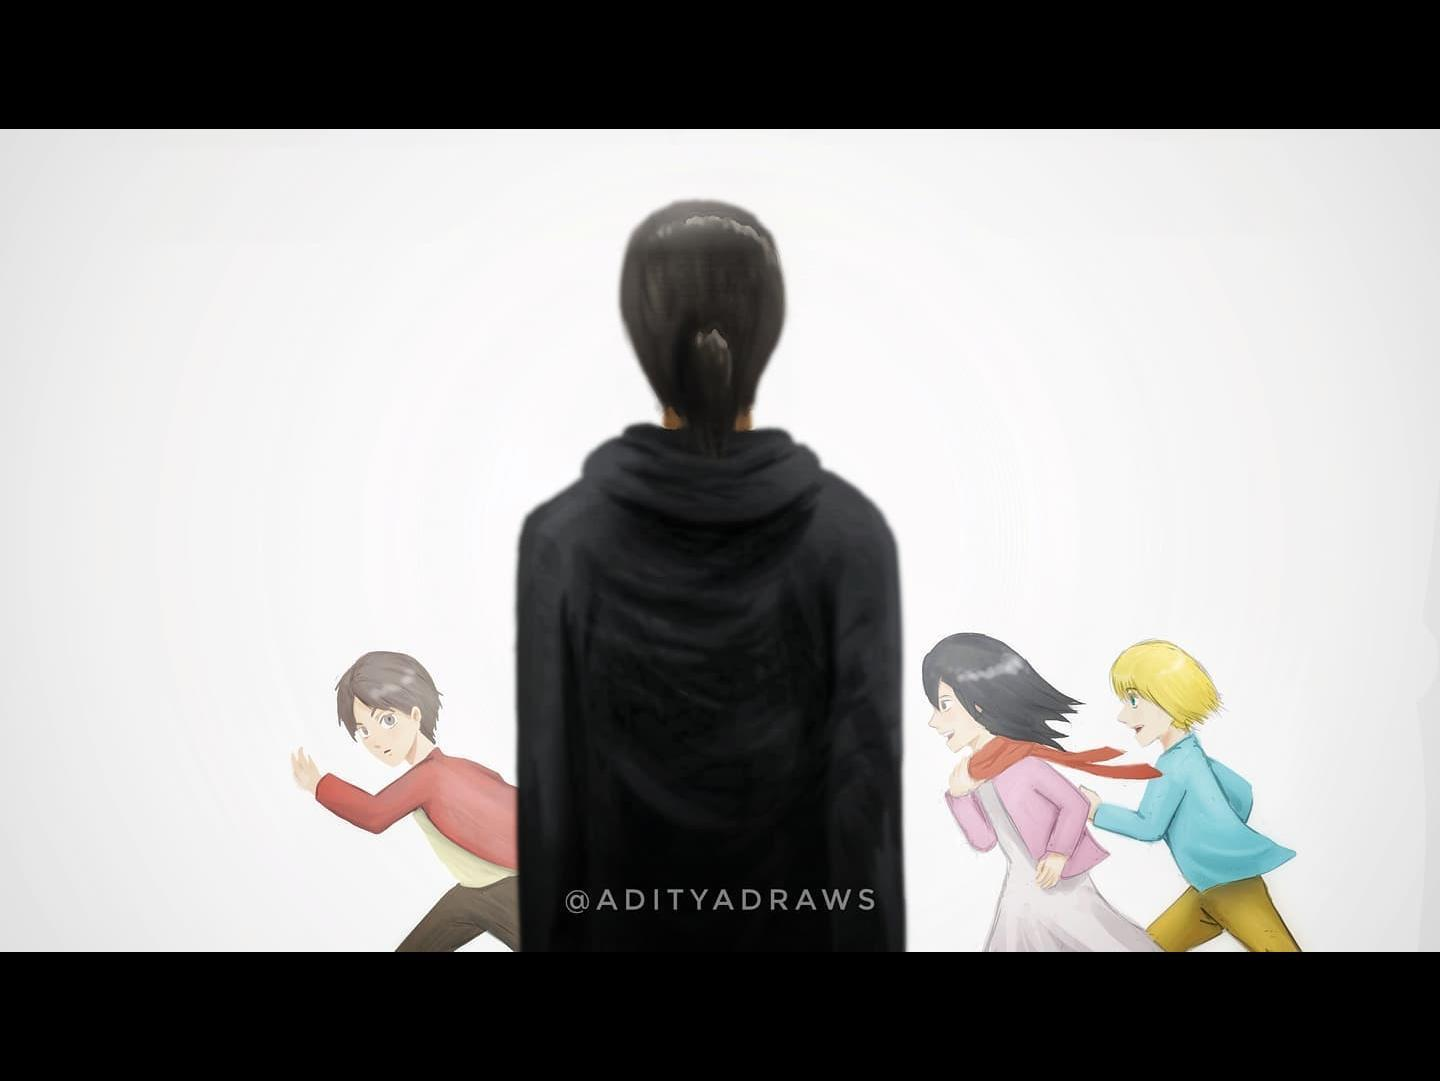
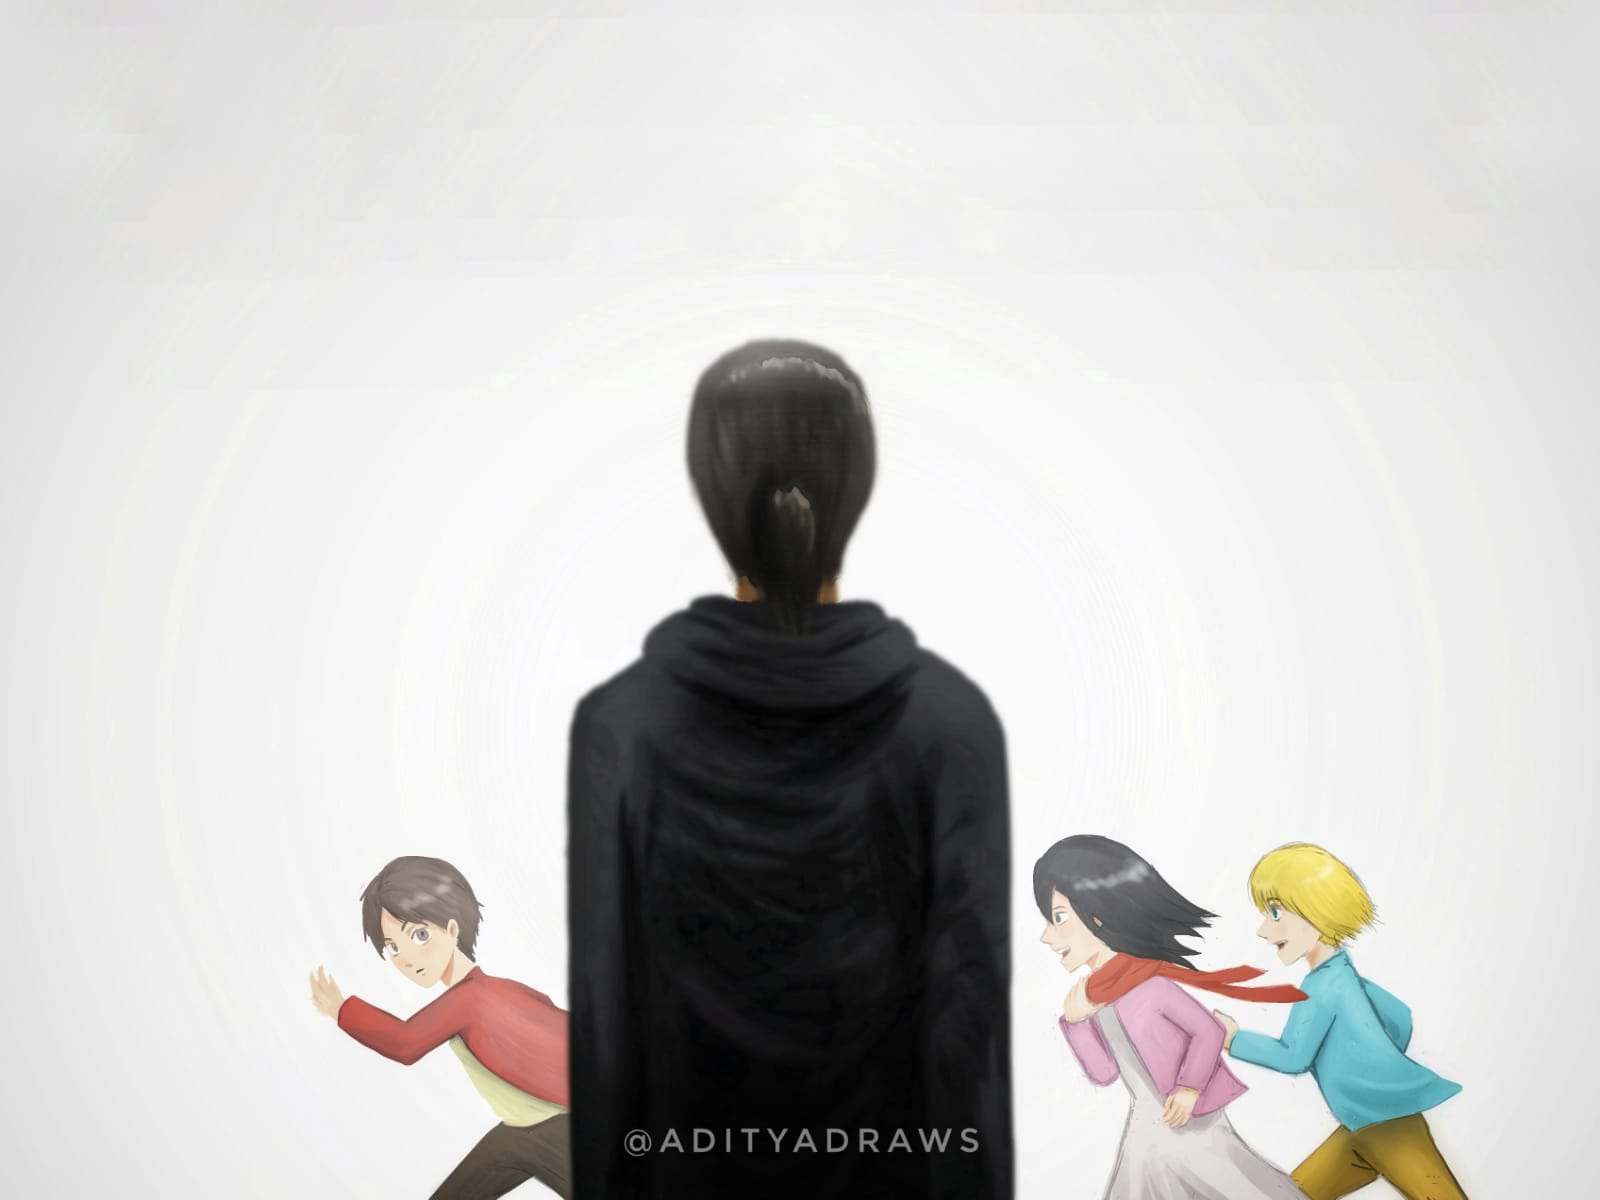
Python + CSS cleanup, update pics

diff --git a/assets/css/main.css b/assets/css/main.css
@@ -719,7 +719,7 @@
 		top: 0;
 		width: 22.5em;
 		height: 100%;
-		background: #fff;
+		background: #fff; /* Note: Change for BG color */
 		outline: 0;
 		overflow-x: hidden;
 		overflow-y: auto;
@@ -729,7 +729,7 @@
 		right: 0;
 	}
 
-		#main .toggle {
+		/*#main .toggle {
 			-webkit-tap-highlight-color: transparent;
 			position: absolute;
 			top: 0;
@@ -743,12 +743,12 @@
 			z-index: 1;
 			background-position: 0.5em 0.5em;
 			left: 0;
-		}
+		}*/
 
-		body.fullscreen #main {
+		/*body.fullscreen #main {
 			visibility: hidden;
 			right: -22.5em;
-		}
+		}*/
 
 		body.is-loading-1 #main {
 			opacity: 0;
@@ -757,14 +757,15 @@
 
 		@media screen and (max-width: 1280px) {
 
+			/*Note: Thumbnail col width*/
 			#main {
-				width: 19em;
+				width: 23em;
 			}
 
-				body.fullscreen #main {
+				/*body.fullscreen #main {
 					right: -19em;
-				}
-
+				}*/
+				
 		}
 
 		@media screen and (max-width: 980px) {
@@ -787,7 +788,7 @@
 				-ms-transition: opacity 0.5s ease, visibility 0.5s;
 				transition: opacity 0.5s ease, visibility 0.5s;
 				width: 100%;
-				background: #fff;
+				background: #fff; /* Note: Change for mobile background */
 				text-align: center;
 			}
 
@@ -796,11 +797,11 @@
 					right: auto !important;
 				}
 
-				body.fullscreen #main {
+				/*body.fullscreen #main {
 					left: auto !important;
 					right: auto !important;
 					opacity: 0;
-				}
+				}*/
 
 				#main .toggle {
 					display: none;
@@ -1027,7 +1028,7 @@
 				height: 100%;
 			}
 
-			#viewer .inner .toggle {
+			/*#viewer .inner .toggle {
 				-webkit-tap-highlight-color: transparent;
 				position: absolute;
 				top: 0;
@@ -1040,7 +1041,7 @@
 				z-index: 1;
 				right: 0;
 				background-position: calc(100% - 0.75em) 0.75em;
-			}
+			}*/
 
 			#viewer .inner .nav-next,
 			#viewer .inner .nav-previous {
@@ -1148,13 +1149,14 @@
 				opacity: 1;
 			}
 
-		body.fullscreen #viewer {
+		/*body.fullscreen #viewer {
 			width: 100%;
-		}
+		}*/
 
-			body.fullscreen #viewer .inner .toggle {
+			/*body.fullscreen #viewer .inner .toggle {
 				background-image: url("images/open.svg");
-			}
+			}*/
+
 
 		body.is-loading-1 #viewer {
 			opacity: 0;
@@ -1167,7 +1169,8 @@
 		@media screen and (max-width: 1280px) {
 
 			#viewer {
-				width: calc(100% - 19em);
+				/*width: calc(100% - 19em); */
+				/* Note: The above is to resize the main view */
 			}
 
 		}
@@ -1188,9 +1191,9 @@
 					right: 0;
 				}
 
-				body.fullscreen #viewer .inner .toggle {
+				/*body.fullscreen #viewer .inner .toggle {
 					opacity: 1;
-				}
+				}*/
 
 		}
 
@@ -1206,9 +1209,9 @@
 				background-size: 32px 32px;
 			}
 
-			body.fullscreen #viewer .inner .toggle {
+			/*body.fullscreen #viewer .inner .toggle {
 				background-image: url("images/open-small.svg");
-			}
+			}*/
 
 		}
 
@@ -1226,10 +1229,10 @@
 				opacity: 0;
 			}
 
-				#viewer .inner .toggle {
+				/*#viewer .inner .toggle {
 					background-image: url("images/close-small.svg") !important;
 					background-size: 32px 32px;
-				}
+				}*/
 
 				body.fullscreen #viewer {
 					-moz-transition-delay: 0.5s;

diff --git a/build_gallery.py b/build_gallery.py
@@ -1,5 +1,7 @@
+from math    import ceil
 from os      import listdir
 from os.path import isfile, join
+from PIL     import Image, ImageOps
 from shutil  import copyfile
 
 import os
@@ -16,6 +18,7 @@ thumbnail: {}
 caption: {}
 ---
 '''
+
 ROOT = DIRS['root']
 THUMB_ROOT = DIRS['thumbs']
 FULL_ROOT = DIRS['fulls']
@@ -26,17 +29,11 @@ dated_folders = os.walk(ROOT)
 
 dry_run = False
 
-im = r'C:\Users\gayat\Desktop\Instagram data backups\adityadraws_20211212\media\posts\202106\200509058_3047549632142829_5999638296946235673_n_18135034312168803.jpg'
-
 def resize(image):
-    from PIL import Image, ImageOps
-    from math import ceil
     img = Image.open(image)
-    print(img.width, img.height)
 
     # If it is not 4:3, make it 4:3 ratio first by adding borders
     # then resize to 1200:750
-
     w = img.width
     h = img.height
     new_h = h
@@ -53,8 +50,6 @@ def resize(image):
     down = ceil(vertical_border/2)
     left = ceil(horizontal_border/2)
     right = ceil(horizontal_border/2)
-    print(left, up, right, down)
-    #new_img = ImageOps.expand(img, (up, right, down, left), fill = 'black')
     new_img = ImageOps.expand(img, (left, up, right, down), fill = 'black')
     size = (1200, 800)
     new_img.save(image)
@@ -65,14 +60,6 @@ for folder in dated_folders:
 
     if path_to_folder == ROOT:
         continue
-
-    '''
-    Enter into this folder.
-    Copy every image and move it to blog's thumbnail + full
-    Create a new md post for this and add the path + title
-    Title can be date and post number
-    YYYMM#<PostNo>
-    '''
 
     images = [f for f in listdir(path_to_folder) if isfile(join(path_to_folder, f)) and (f.endswith('.jpg') or f.endswith('png') or f.endswith('jpeg'))]
     post_num = 1
@@ -109,10 +96,6 @@ for folder in dated_folders:
         
         if not dry_run:
             new_post.close()
-            
-        print('Generating with content:')
-        print(content)
         post_num += 1
-
 
 print('Success!')

diff --git a/README.md b/README.md
@@ -1,2 +1,22 @@
-# adityadraws.github.io
-Art gallery
+# the art of adityadraws
+
+![Banner art depicting Zenitsu](/assets/images/banner.jpg)
+
+Webpage is live at https://adityadraws.github.io
+
+------------------
+
+Hello! You're looking at the source code to generate my art gallery!
+
+#### How this gallery is periodically updated:
+
+build_gallery.py takes full responsibility of this, and proceeds as follows -
+
+- Parses periodic data backups from instagram per the specified dir
+- Iterates over subfolders and images
+- Resizes each image to 4:3 aspect ratio by encapsulating additional black pixels - this is done to normalize different image resolutions
+- Generates full HD versions and thumbnail versions of the image and places them in the assets dir
+- Generates the post.md file, adding the image to the gallery
+- Repeat for other images
+
+The site has been left un-optimized for mobile intentionally, but feel free to zoom in ✨
